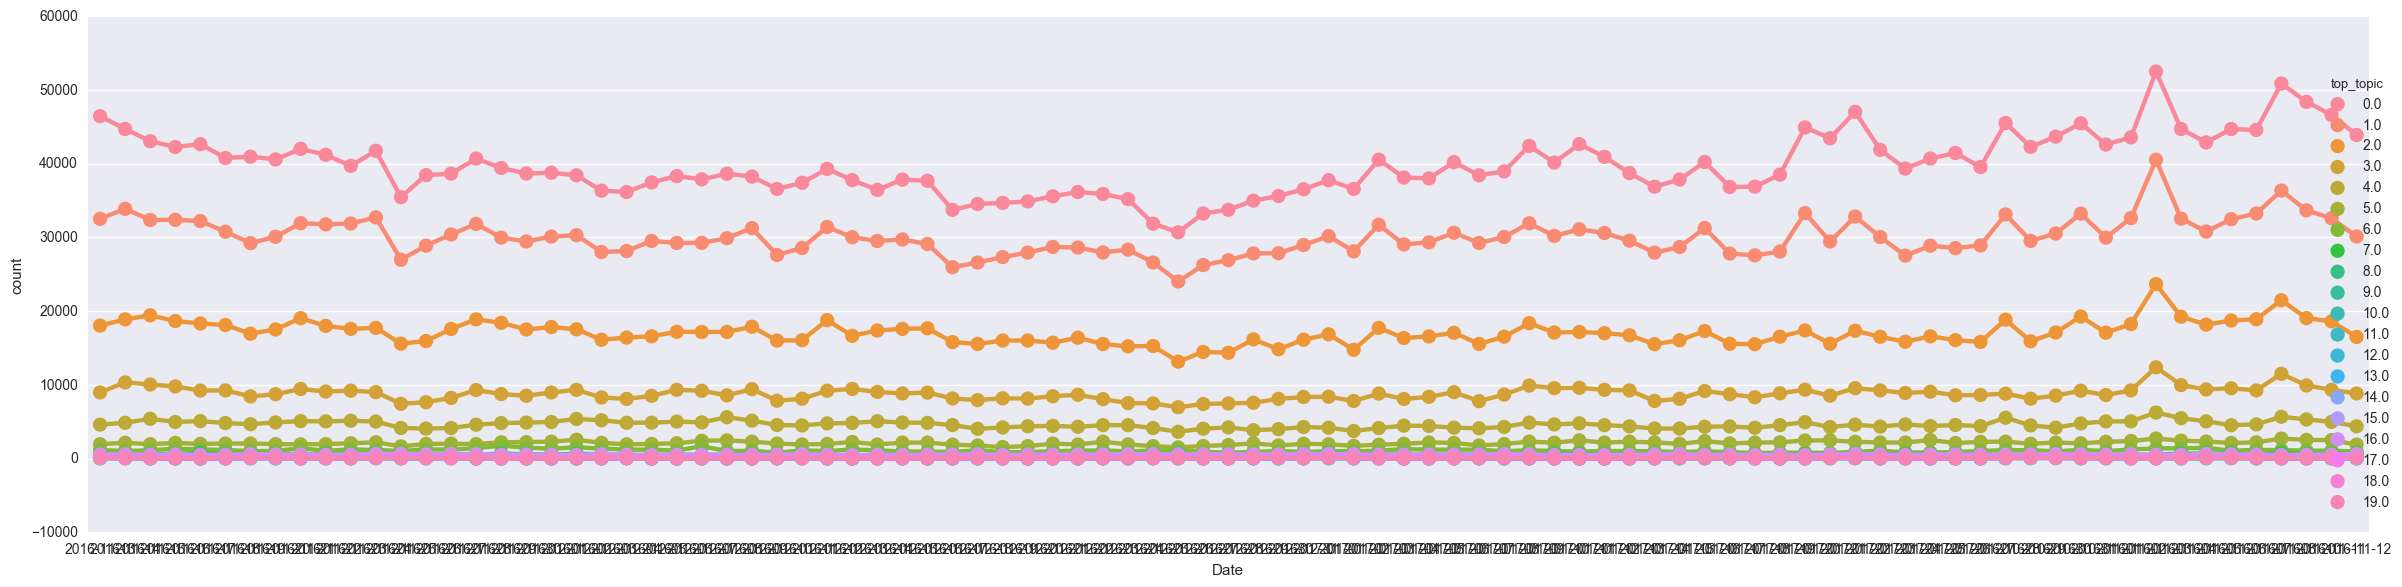
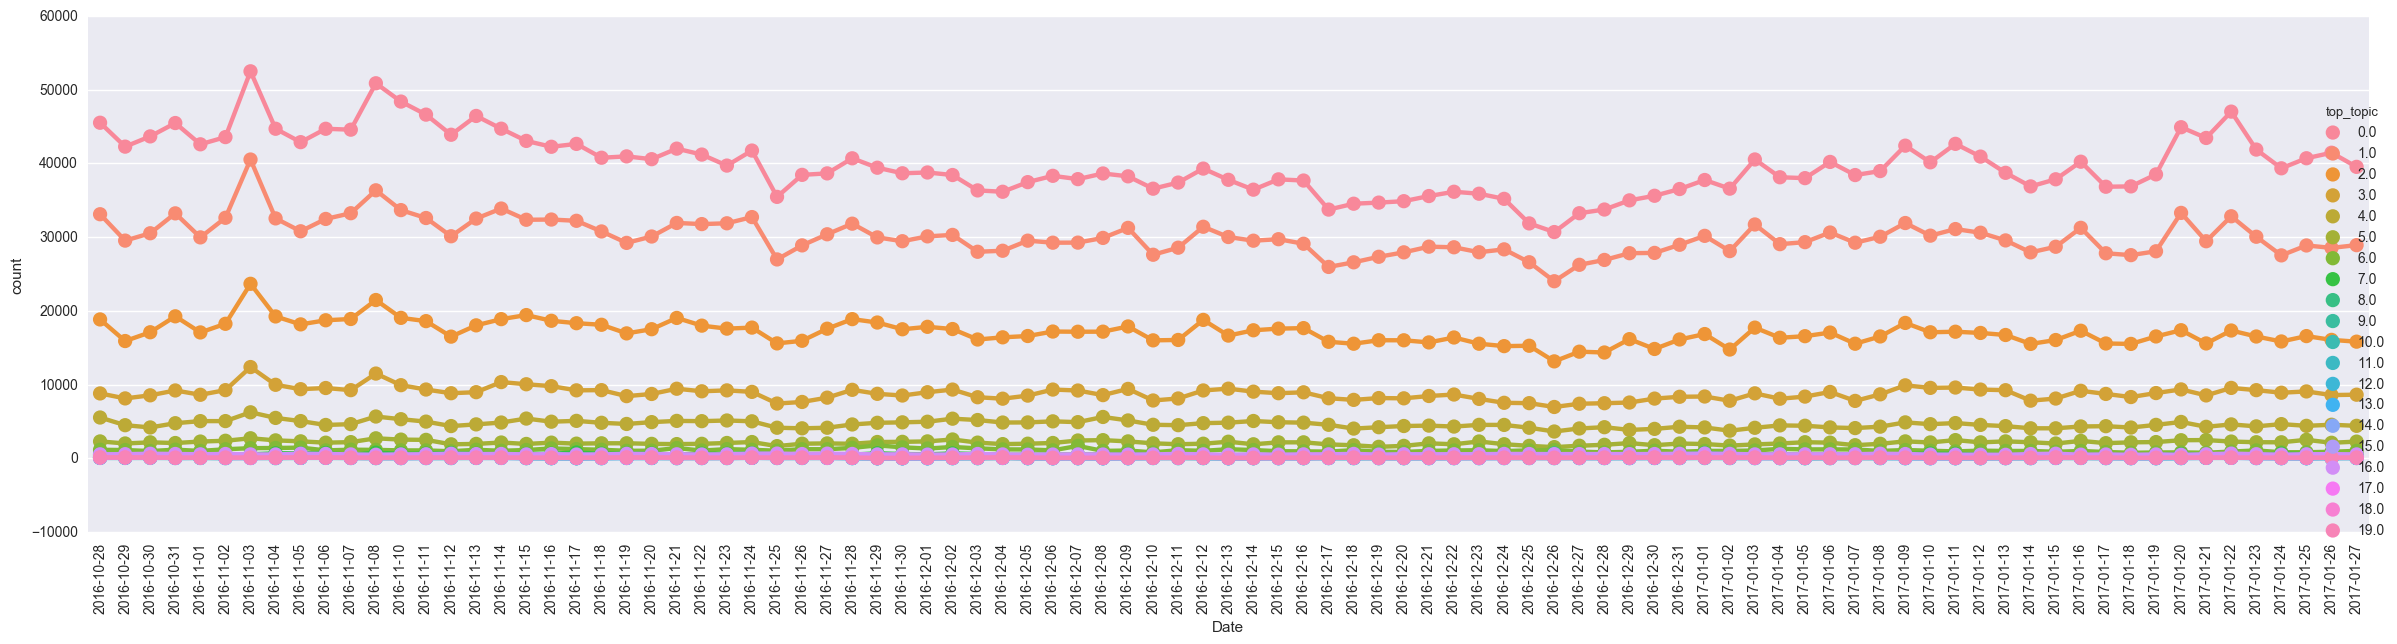
new plots

diff --git a/Analysis/Topic_Analysis.py b/Analysis/Topic_Analysis.py
@@ -11,30 +11,30 @@ from login_info import user, host, password
 #%matplotlib inline
 # Connection to database
 conn = psycopg2.connect(
-    "dbname='culturalmapper_LA' user=%s host=%s password=%s" % (user, host, password))
+    "dbname='culturalmapper_Istanbul' user=%s host=%s password=%s" % (user, host, password))
 
 # Reading in Data
 # Topic Assignments
+# df = pd.read_csv(
+#     "/Users/tylerworthington/Git_Repos/Data/Cultural_Mapper_Data/LA/English_LA/035Data/035Data/English_LA.csv")
+#
+# # Raw Tweets
+# primary = psql.read_sql(
+#     "SELECT * FROM la_city_primary WHERE created_at > '2016-10-28' AND created_at < '2017-01-28'", conn)
+#
+# df = pd.read_csv(
+#     "/Users/tylerworthington/Git_Repos/Data/Cultural_Mapper_Data/Chicago/035Data/English_Chicago.csv")
+#
+# # Raw Tweets
+# primary = psql.read_sql(
+#     "SELECT * FROM chicago_city_primary WHERE created_at > '2016-10-28' AND created_at < '2017-01-28'", conn)
+
 df = pd.read_csv(
-    "/Users/tylerworthington/Git_Repos/Data/Cultural_Mapper_Data/LA/English_LA/035Data/035Data/English_LA.csv")
+    "/Users/tylerworthington/Git_Repos/Data/Cultural_Mapper_Data/Istanbul/Combined_Istanbul_035.csv")
 
 # Raw Tweets
 primary = psql.read_sql(
-    "SELECT * FROM la_city_primary WHERE created_at > '2016-10-28' AND created_at < '2017-01-28'", conn)
-
-# df = pd.read_csv(
-#     "/Users/tylerworthington/Git_Repos/Data/Cultural_Mapper_Data/Istanbul/035Data/English_Chicago.csv")
-#
-# # Raw Tweets
-# primary = psql.read_sql(
-#     "SELECT * FROM chicago_city_primary WHERE created_at > '2016-10-28' AND created_at < '2017-01-28' LIMIT 1000", conn)
-
-# df = pd.read_csv(
-#     "/Users/tylerworthington/Git_Repos/Data/Cultural_Mapper_Data/Istanbul/Combined_Istanbul_035.csv")
-#
-# # Raw Tweets
-# primary = psql.read_sql(
-#     "SELECT * FROM istanbul_city_primary WHERE created_at > '2016-10-28' AND created_at < '2017-01-28'", conn)
+    "SELECT * FROM istanbul_city_primary WHERE created_at > '2016-10-28' AND created_at < '2017-01-28'", conn)
 
 # Dropping uneeded variables
 df.drop(['Unnamed: 0'], inplace=True, axis=1)
@@ -69,7 +69,7 @@ Plot Distribution of Activity Throughout Entire Series.
 dailyplot = sns.factorplot(x="Date", y="count", hue="top_topic",
                            estimator=np.sum, data=fulldf, size=15, aspect=10)
 dailyplot.set_xticklabels(rotation=90)
-dailyplot.savefig("Graphs/LA/Daily_Plot.png")
+dailyplot.savefig("Graphs/Istanbul/Turkish_Daily_Plot.png")
 # Daily Plot as Percentage
 # Mapping topic number to frequency of it
 map_topics_la = {0: 175586, 1: 77648, 2: 25969, 3: 10993, 19: 6112, 12: 6087, 16: 5426, 17: 5101, 8: 4719,
@@ -78,13 +78,16 @@ map_topics_la = {0: 175586, 1: 77648, 2: 25969, 3: 10993, 19: 6112, 12: 6087, 16
 map_topics_chicago = {
     0: 114242, 1: 42130, 2: 12954, 12: 6894, 3: 5482, 4: 4293, 9: 4236, 16: 3534, 17: 3344, 5: 2997, 15:  2935, 7: 2850, 8: 2428, 18: 2039, 14: 2020, 13: 2015, 11: 1753, 6: 1683, 19: 1672, 10: 1531}
 
+map_topics_istanbul = {"Turkish_0": 109565, "Turkish_1":     26665, "Turkish_2":     11233, "Turkish_16":      4829, "Turkish_3":      4323, "Turkish_9":      4279, "Turkish_4":      4056, "Turkish_7":      2479, "Turkish_8":      2395, "Turkish_5":      2371,
+                       "Turkish_13":      2021, "Turkish_14":      1878, "Turkish_15":      1644, "Turkish_12":      1563, "Turkish_6":      1489, "Turkish_10":      1231, "Turkish_11":       765, "English_0":    24826, "English_2":     3018, "English_1":     2508}
+
 # Creating variable that when summed will give the relative activity of a topic
-fulldf["topic_percentage"] = (1 / (fulldf["top_topic"].map(map_topics_la)))
+fulldf["topic_percentage"] = (1 / (fulldf["top_topic"].map(map_topics_istanbul)))
 
 dailyplot_percentage = sns.factorplot(x="Date", y="topic_percentage", hue="top_topic",
                                       estimator=np.sum, data=fulldf, size=10, aspect=6)
 dailyplot_percentage.set_xticklabels(rotation=90)
-dailyplot_percentage.savefig("Graphs/LA/Daily_Plot_Percentage.png")
+dailyplot_percentage.savefig("Graphs/Istanbul/Turkish_Daily_Plot_Percentage.png")
 
 # removing Election aftermath
 fulldf_without_election = fulldf[fulldf.Date != '2016-11-09']
@@ -94,7 +97,7 @@ dailyplot_wo_election = sns.factorplot(x="Date", y="count", hue="top_topic",
 
 dailyplot_wo_election.set_xticklabels(rotation=90)
 
-dailyplot_wo_election.savefig("Graphs/LA/Daily_WO_Election")
+dailyplot_wo_election.savefig("Graphs/Istanbul/Turkish_Daily_WO_Election")
 
 # Daily Plot as Percentage Without Election
 dailyplot_woelection_percentage = sns.factorplot(x="Date", y="topic_percentage", hue="top_topic",
@@ -102,44 +105,45 @@ dailyplot_woelection_percentage = sns.factorplot(x="Date", y="topic_percentage",
 
 dailyplot_woelection_percentage.set_xticklabels(rotation=90)
 
-dailyplot_woelection_percentage.savefig("Graphs/LA/Daily_Plot_WOELECTION_Percentage.png")
+dailyplot_woelection_percentage.savefig(
+    "Graphs/Istanbul/Turkish_Daily_Plot_WOELECTION_Percentage.png")
 
 #################### Day of The Week Plots#####################
-"""
-Plot Activity Throughout Days of the Week
-"""
-# Creating new variable for day of the week
-fulldf['Day of Week'] = fulldf['Date1'].apply(lambda row: row.weekday())
-
-# Mapping integer to name of day
-map_days = {0: "Monday", 1: "Tuesday", 2: "Wednesday",
-            3: "Thursday", 4: "Friday", 5: "Saturday", 6: "Sunday"}
-
-fulldf['Day of Week'] = fulldf['Day of Week'].map(map_days)
-
-# Day of Week Plot
-dayoftheweek = sns.factorplot(x="Day of Week", y="count",
-                              hue="top_topic", estimator=np.sum, data=fulldf)
-dayoftheweek.set_xticklabels(rotation=90)
-dayoftheweek.savefig("Graphs/Chicago/Day_of_The_Week.png")
-
-# Day of the Week As Percentage of Topic
-dayoftheweek_percentage = sns.factorplot(x="Day of Week", y="topic_percentage", hue="top_topic",
-                                         estimator=np.sum, data=fulldf, size=10, aspect=6)
-
-dayoftheweek_percentage.set_xticklabels(rotation=90)
-
-dayoftheweek_percentage.savefig("Graphs/Chicago/Day_of_The_Week_Percentage.png")
-
-# Day of the Week without Election aftermath
-dayoftheweek_without_election = fulldf[fulldf.Date != '2016-11-09']
-dayoftheweek_woaftermath = sns.factorplot(x="Day of Week", y="count", hue="top_topic",
-                                          estimator=np.sum, data=dayoftheweek_without_election)
-dayoftheweek_woaftermath.set_xticklabels(rotation=90)
-dayoftheweek_woaftermath.savefig("Graphs/Chicago/Day_of_The_Week_WO_Election.png")
-
-# Day of the Week without Election aftermath as percentage
-dayoftheweek_woaftermath_percentage = sns.factorplot(x="Day of Week", y="topic_percentage", hue="top_topic",
-                                                     estimator=np.sum, data=dayoftheweek_without_election, size=10, aspect=6)
-dayoftheweek_woaftermath_percentage.set_xticklabels(rotation=90)
-dayoftheweek_woaftermath_percentage.savefig("Graphs/Chicago/Day_of_The_Week__WO_Percentage.png")
+# """
+# Plot Activity Throughout Days of the Week
+# """
+# # Creating new variable for day of the week
+# fulldf['Day of Week'] = fulldf['Date1'].apply(lambda row: row.weekday())
+#
+# # Mapping integer to name of day
+# map_days = {0: "Monday", 1: "Tuesday", 2: "Wednesday",
+#             3: "Thursday", 4: "Friday", 5: "Saturday", 6: "Sunday"}
+#
+# fulldf['Day of Week'] = fulldf['Day of Week'].map(map_days)
+#
+# # Day of Week Plot
+# dayoftheweek = sns.factorplot(x="Day of Week", y="count",
+#                               hue="top_topic", estimator=np.sum, data=fulldf)
+# dayoftheweek.set_xticklabels(rotation=90)
+# dayoftheweek.savefig("Graphs/Chicago/Day_of_The_Week.png")
+#
+# # Day of the Week As Percentage of Topic
+# dayoftheweek_percentage = sns.factorplot(x="Day of Week", y="topic_percentage", hue="top_topic",
+#                                          estimator=np.sum, data=fulldf, size=10, aspect=6)
+#
+# dayoftheweek_percentage.set_xticklabels(rotation=90)
+#
+# dayoftheweek_percentage.savefig("Graphs/Chicago/Day_of_The_Week_Percentage.png")
+#
+# # Day of the Week without Election aftermath
+# dayoftheweek_without_election = fulldf[fulldf.Date != '2016-11-09']
+# dayoftheweek_woaftermath = sns.factorplot(x="Day of Week", y="count", hue="top_topic",
+#                                           estimator=np.sum, data=dayoftheweek_without_election)
+# dayoftheweek_woaftermath.set_xticklabels(rotation=90)
+# dayoftheweek_woaftermath.savefig("Graphs/Chicago/Day_of_The_Week_WO_Election.png")
+#
+# # Day of the Week without Election aftermath as percentage
+# dayoftheweek_woaftermath_percentage = sns.factorplot(x="Day of Week", y="topic_percentage", hue="top_topic",
+#                                                      estimator=np.sum, data=dayoftheweek_without_election, size=10, aspect=6)
+# dayoftheweek_woaftermath_percentage.set_xticklabels(rotation=90)
+# dayoftheweek_woaftermath_percentage.savefig("Graphs/Chicago/Day_of_The_Week__WO_Percentage.png")
